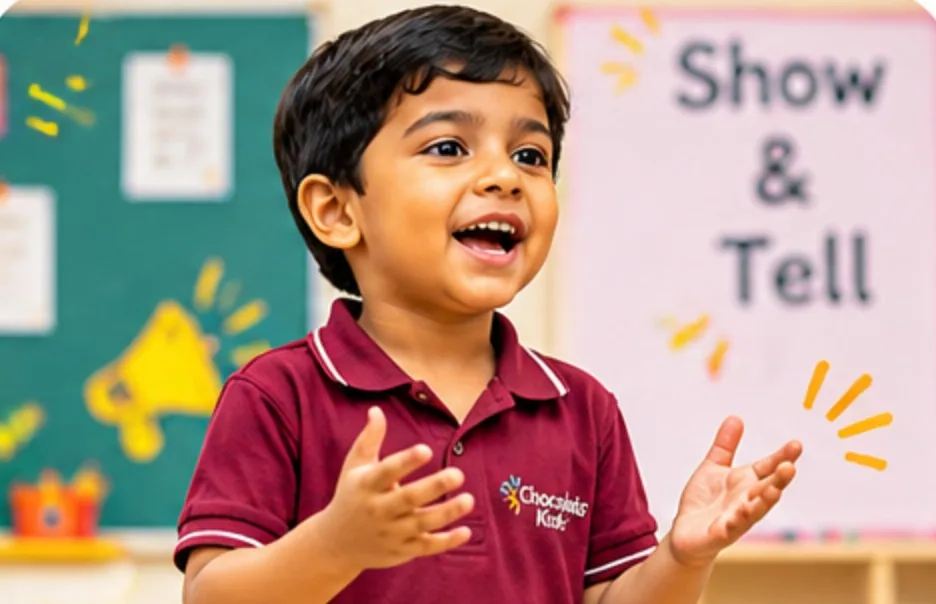
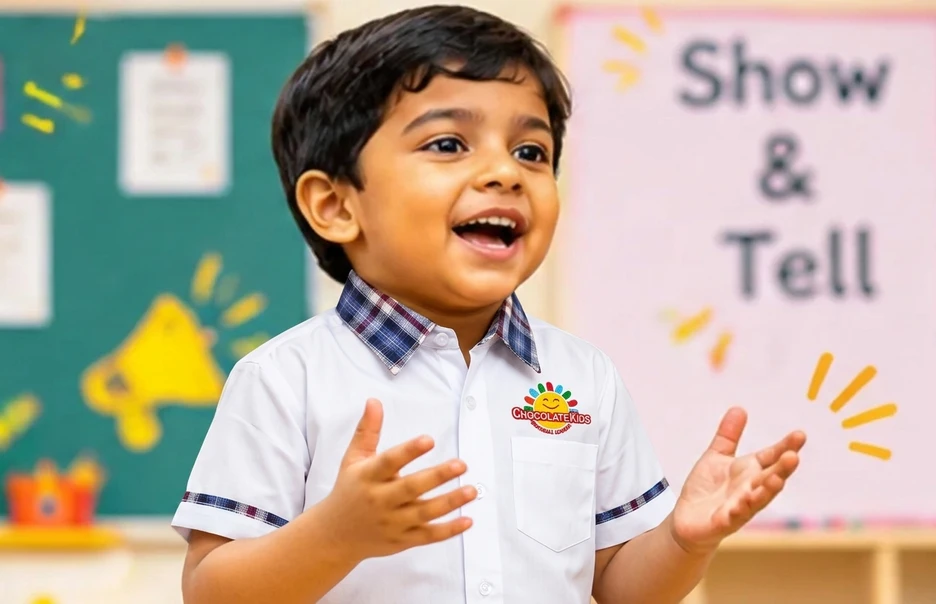
feat: update school uniforms across website photography

diff --git a/src/components/FranchiseShowcase.jsx b/src/components/FranchiseShowcase.jsx
@@ -27,7 +27,7 @@ const materialBars = ["bg-[#C51F45]", "bg-[#174EA6]", "bg-[#F26A21]", "bg-[#1683
 const materialPhotos = [
   { src: "/images/franchise/manual.webp", pos: "left 40%", alt: "Three Chocolate Kids teachers in maroon uniforms reading the Teacher Training Manual together" },
   { src: "/images/franchise/guide.webp", pos: "left 40%", alt: "The colourful Curriculum Guide beside stacked books, crayons, alphabet blocks and an open activity book" },
-  { src: "/images/franchise/merch.webp", pos: "left 40%", alt: "Branded Chocolate Kids school uniforms, backpack, water bottle, cap, lunch box and teddy bear" },
+  { src: "/images/franchise/merch.webp", pos: "center 40%", alt: "Official Chocolate Kids school uniforms for boys and girls, branded school bags and learning kit" },
   { src: "/images/franchise/toys.webp", pos: "left 40%", alt: "Plush soft toys with wooden puzzles, stacking rings, number board and an abacus" },
 ];
 

diff --git a/src/data.js b/src/data.js
@@ -1214,7 +1214,7 @@ export const franchiseMaterialsList = [
   },
   {
     name: "Branded Merchandise & Apparel",
-    desc: "Official Chocolate Kids polo shirts, branded school bags, stainless tumblers, notebooks, folders, and pens.",
+    desc: "Official Chocolate Kids school uniforms, branded polo shirts, bags, stainless tumblers, notebooks, and folders.",
     badge: "Official Merch",
   },
   {
